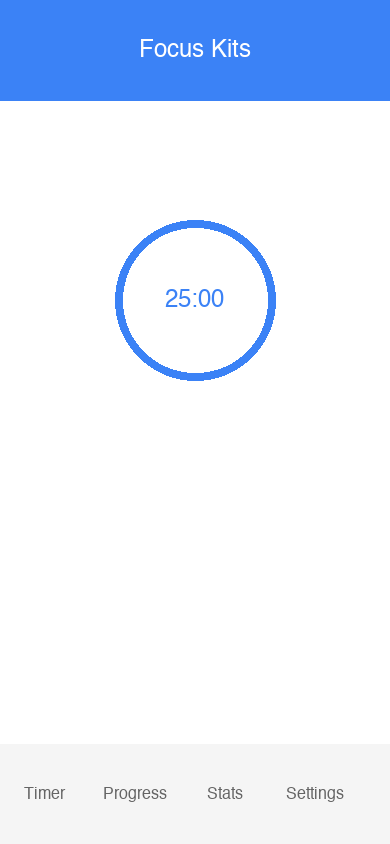
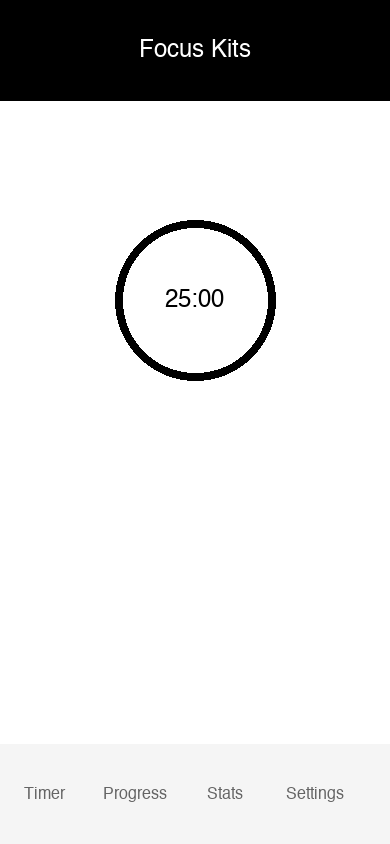
fix: update color scheme to use black for background and theme colors

diff --git a/src/app/layout.tsx b/src/app/layout.tsx
@@ -32,7 +32,7 @@ export const viewport: Viewport = {
   width: "device-width",
   initialScale: 1,
   viewportFit: "cover",
-  themeColor: "#3b82f6",
+  themeColor: "#000000",
 };
 
 export default function RootLayout({
